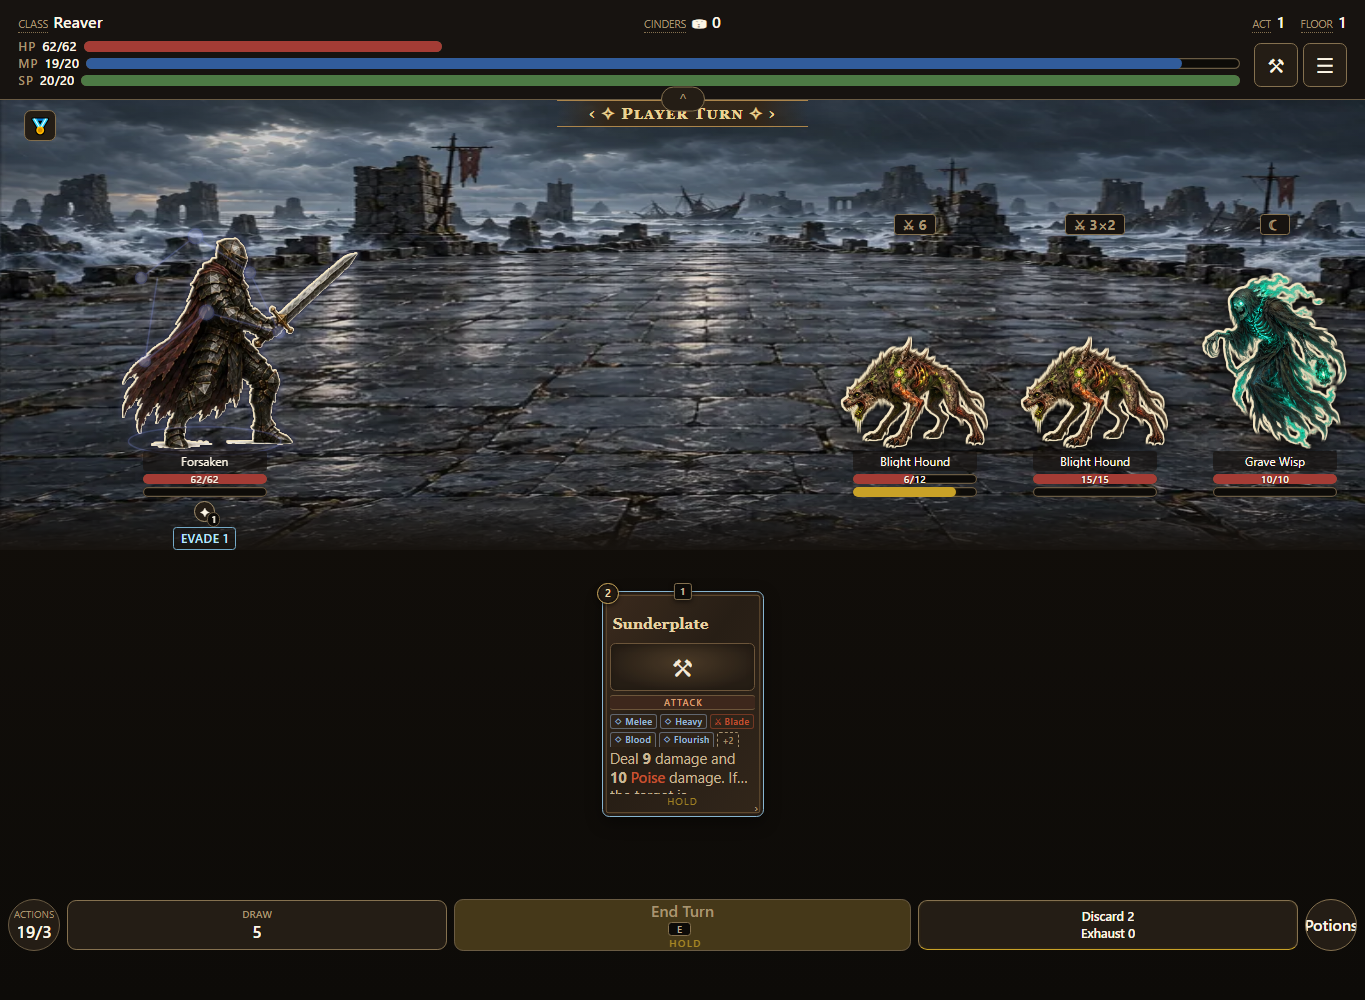
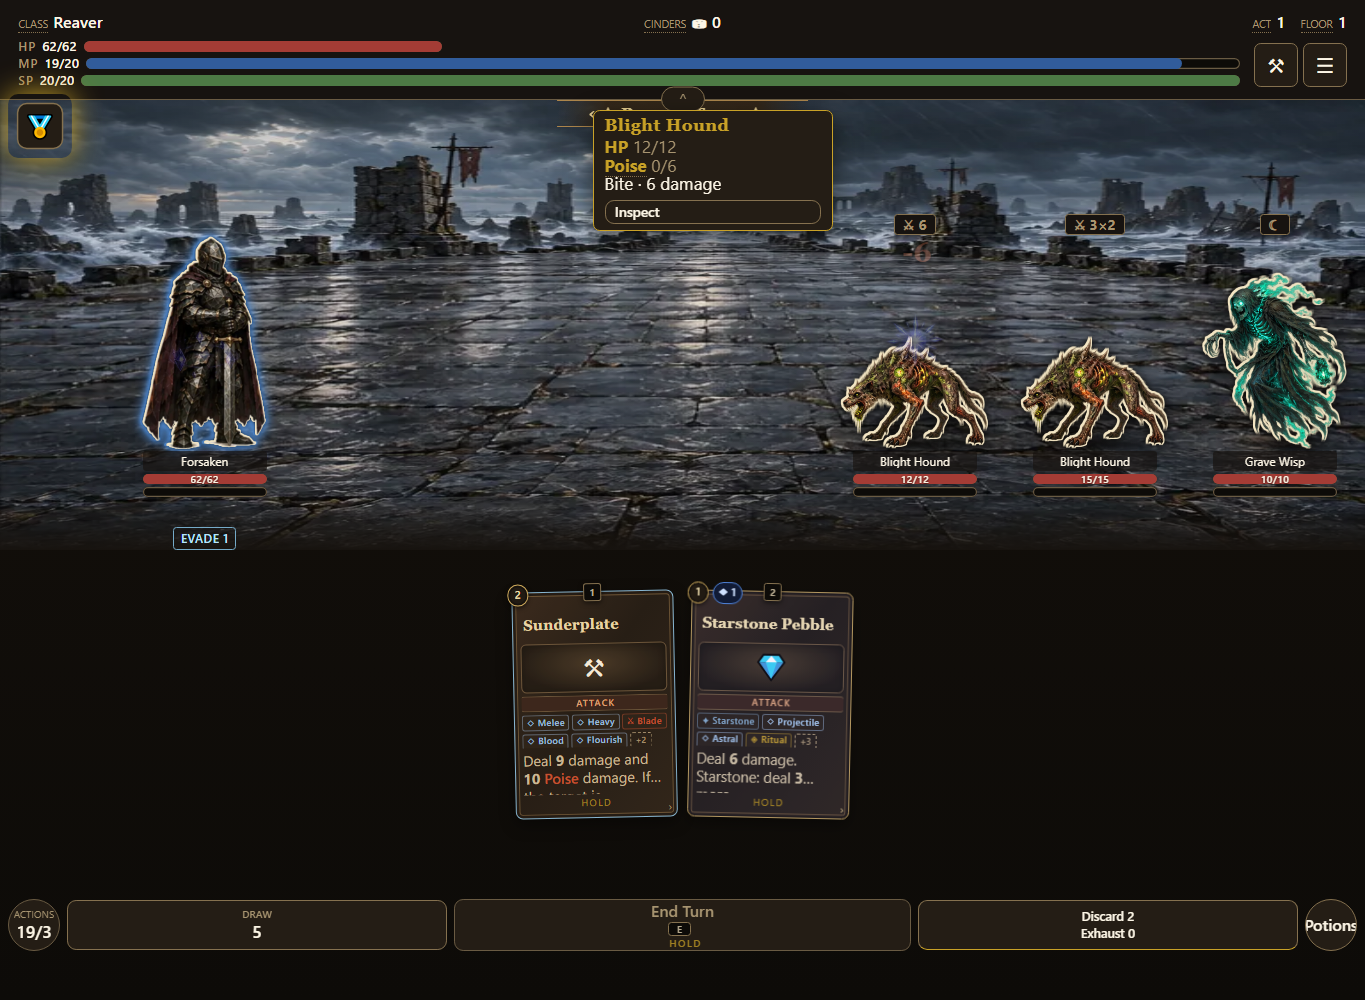
Refresh rebased preview and desktop and phone screenshots

diff --git a/docs/qa/combat-tag-sources.md b/docs/qa/combat-tag-sources.md
@@ -1,6 +1,6 @@
 # Combat tag/source browser verification
 
-PR #876, build `0.6.0.63`, rebased on dev `769dc18f`.
+PR #876, build `0.6.0.66`, rebased on dev `c90a9008`, including the concise tooltip update.
 
 Run `node tools/combat-prototypes-browser.mjs` after rebuilding the standalone.
 All 41 checks passed at 1365 by 1000 and 390 by 844 pixels, with no browser
@@ -20,6 +20,21 @@ the checks above concern card tags and source selection, not all battlefield art
 
 - [Desktop capture](combat-tag-sources/desktop.png)
 - [Phone capture](combat-tag-sources/phone.png)
+
+## Playable preview
+
+Serve the built game with `node tools/serve.mjs --port 8876 --no-open --root dist`
+and open `http://localhost:8876/AshenSpire.html?shot=combat-test`.
+Choose heavy physical, fast Bleed, or caster and begin the test run. This route
+uses in-memory storage and does not alter durable saves.
+
+`node tools/combat-test-browser.mjs` passed 57 checks across all three builds at
+desktop and phone sizes, including stance persistence, deterministic Evade,
+resource carryover between fights, and unchanged durable storage. Route
+continuation uses an explicit low-HP fixture; it is not a full balance playthrough.
+
+- [Playable desktop preview](combat-tag-sources/preview-desktop.png)
+- [Playable phone preview](combat-tag-sources/preview-phone.png)
 
 Engine source ownership, equipment swaps across all piles, exact preview/save
 restoration, wrong-hand rollback, and payment-event source snapshots are covered
